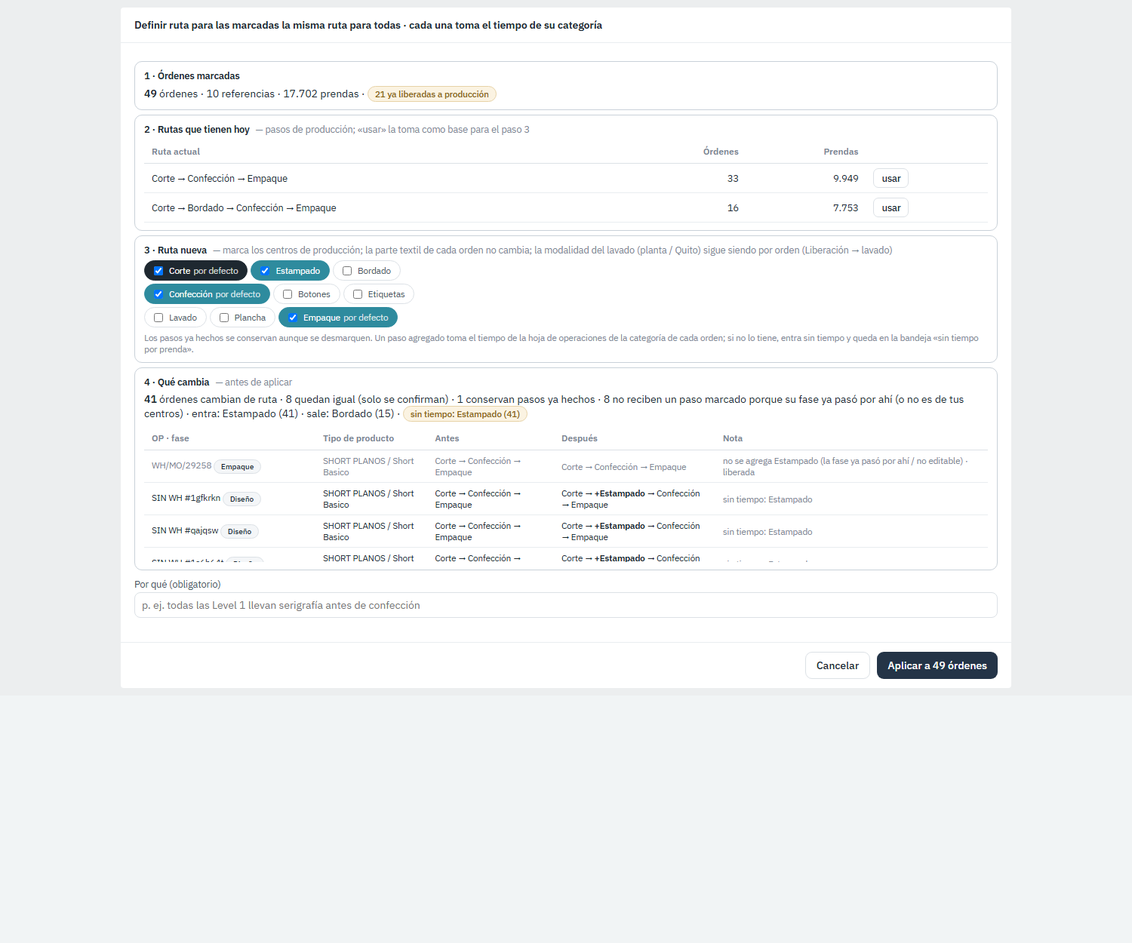
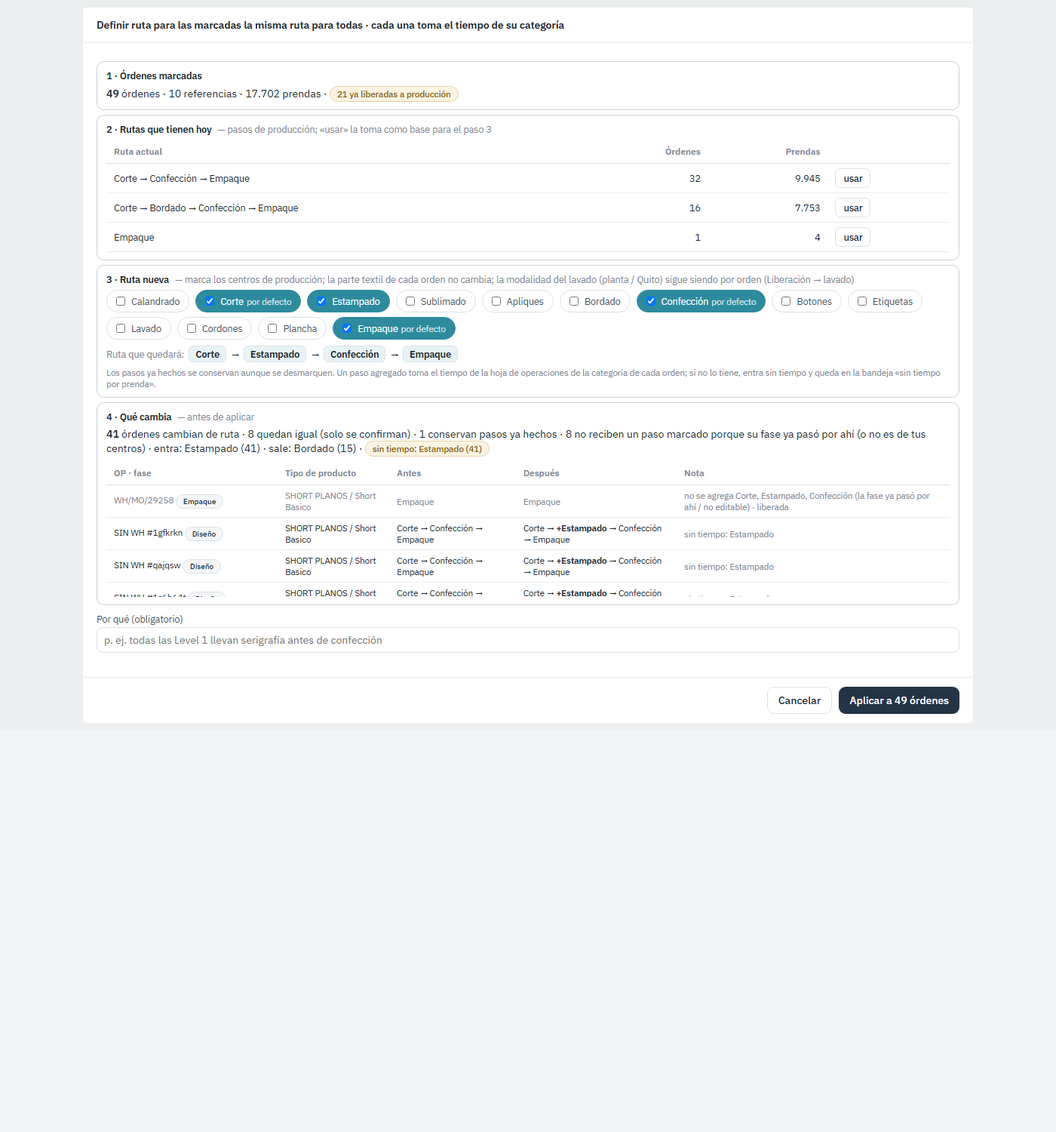
Ruta en lote: el paso 3 usa todo el ancho (centros en el orden del proceso, chips más grandes) y dice «Ruta que quedará: … → …». Rutas: el filtro de fases muestra por fase (N órdenes · M prendas) del chip puesto, sin vaciarse al desmarcar; cada fase en una línea. Pruebas UX3/RLT, capturas

diff --git a/index.html b/index.html
@@ -245,6 +245,7 @@ main{padding:24px 28px 70px}
 .panel .body>label,.modal .body>label,.ed-blk>label{font-weight:700;color:var(--ink);margin-top:10px}
 /* sub-bloque enmarcado dentro de un panel o de una ficha: se ve qué es un bloque y qué es otro */
 .sub-blk{border:1.5px solid #C9D1D9;border-radius:10px;padding:10px 12px;background:var(--paper);margin:6px 0}
+.rl-cens{max-width:none;gap:6px 8px}.rl-cens .chip{padding:6px 12px;font-size:var(--fs-s)}.rl-ruta{margin:8px 0 0;font-size:var(--fs-s);display:flex;flex-wrap:wrap;gap:4px 6px;align-items:center}.rl-ruta b{border:1px solid var(--rule);border-radius:6px;padding:2px 8px;background:var(--t-accent-soft,#f3f6f9)}
 .sub-blk>.sub-t{font-weight:700;font-size:var(--fs-s);color:var(--ink);margin-bottom:6px;display:flex;gap:8px;align-items:baseline;flex-wrap:wrap}
 .sub-blk>.sub-t .mut{font-weight:400}
 .filtros-blk{border:1.5px solid #C9D1D9;border-radius:10px;padding:10px 12px;background:var(--field);margin-bottom:12px}
@@ -779,7 +780,7 @@ async function _save(){
 }
 
 /* ---------- versión cargada vs publicada: nunca mirar números de una copia vieja sin saberlo ---------- */
-const APP_BUILD='2026-09-20 17:15';
+const APP_BUILD='2026-09-20 17:43';
 function verBotonesAdmin(){const ok=puede('config');['btn-respaldo','btn-restaurar'].forEach(id=>{const b=document.getElementById(id);if(b)b.style.display=ok?'':'none'})}
 function verVersion(){const e=document.getElementById('version');if(e)e.textContent='v '+APP_BUILD}
 async function revisarVersion(){try{const r=await fetch(location.pathname+'?nocache='+Date.now(),{cache:'no-store'});if(!r.ok)return;const t=await r.text();const m=t.match(/APP_BUILD=\x27([^\x27]+)\x27/);if(!m)return;
@@ -2932,11 +2933,12 @@ function togFaseFiltro(varName,f,fasesAll){const r=refEstado(varName);if(!r.o)re
   else if(fasesAll.length&&set.size===fasesAll.length&&fasesAll.every(x=>set.has(x)))set=null;
   r.o[r.k]=set;render()}
 function togGrupoFiltro(varName,fasesGrupo,on,fasesAll){const r=refEstado(varName);if(!r.o)return;const cur=r.o[r.k];let set=(!cur||!cur.size||cur.has(FASE_NINGUNA))?(on?new Set():new Set(fasesAll)):new Set(cur);set.delete(FASE_NINGUNA);if(!cur||!cur.size){set=on?new Set():new Set(fasesAll)}fasesGrupo.forEach(f=>on?set.add(f):set.delete(f));if(set.size===0)set=new Set([FASE_NINGUNA]);if(set.size===fasesAll.length&&fasesAll.every(f=>set.has(f)))set=null;r.o[r.k]=set;render()}
+function cuentaFaseTxt(v){if(v&&typeof v==='object')return v.n?num(v.n)+' órdenes · '+num(v.pz)+' prendas':'0';return num(v)}   /* {n,pz} = órdenes y prendas; número = como venía (prendas) */
 function filtroFasesHTML(fasesAll,sel,varName,togFn,cuentas){const _e=estadoFases(sel,fasesAll);const ninguna=_e==='ninguna';const todas=_e==='todas';const n=sel&&sel.size&&!ninguna?sel.size:0;const grupos=gruposFasesDe(fasesAll);const J=JSON.stringify(fasesAll).replace(/"/g,'&quot;');
   return `<details class="ffases" style="position:relative"><summary class="chip" style="list-style:none;cursor:pointer;display:inline-block;white-space:nowrap">${ninguna?'Ninguna fase':todas?'Todas las fases':n+' de '+fasesAll.length+' fases'} ▾</summary>
    <div style="position:absolute;z-index:6;background:var(--paper);border:1px solid var(--rule);border-radius:10px;padding:10px 12px;top:100%;left:0;margin-top:4px;min-width:320px;max-height:400px;overflow:auto;box-shadow:0 6px 20px rgba(0,0,0,.12)">
     <div style="margin-bottom:8px;display:flex;gap:6px"><button class="btn ghost sm" title="quita el filtro: pasan todas las fases" onclick="${varName}=null;render()">Seleccionar todas</button><button class="btn ghost sm" title="deja la lista VACÍA: ninguna fase pasa el filtro" onclick="${varName}=new Set([FASE_NINGUNA]);render()">Limpiar (ninguna)</button></div>
-    ${grupos.map(g=>{const all=!ninguna&&(todas||g.fases.every(f=>sel.has(f)));return `<div style="margin:8px 0 4px;font-size:var(--fs-xs);letter-spacing:.06em;text-transform:uppercase;color:var(--ink3);display:flex;justify-content:space-between"><span>${esc(g.n)}</span><a style="cursor:pointer" onclick="togGrupoFiltro('${varName}',${JSON.stringify(g.fases).replace(/"/g,'&quot;')},${all?'false':'true'},${J})">${all?'quitar':'todas'}</a></div>${g.fases.map(f=>`<label style="display:block;font-size:var(--fs-s);padding:2px 0"><input type="checkbox" ${!ninguna&&(todas||sel.has(f))?'checked':''} onchange="togFaseFiltro('${varName}','${esc(f).replace(/'/g,"\\'")}',${J})" onclick="event.stopPropagation()"> ${esc(f)}${cuentas&&cuentas[f]!=null?' <span class="mut">('+num(cuentas[f])+')</span>':''}</label>`).join('')}`}).join('')}</div></details>`}
+    ${grupos.map(g=>{const all=!ninguna&&(todas||g.fases.every(f=>sel.has(f)));return `<div style="margin:8px 0 4px;font-size:var(--fs-xs);letter-spacing:.06em;text-transform:uppercase;color:var(--ink3);display:flex;justify-content:space-between"><span>${esc(g.n)}</span><a style="cursor:pointer" onclick="togGrupoFiltro('${varName}',${JSON.stringify(g.fases).replace(/"/g,'&quot;')},${all?'false':'true'},${J})">${all?'quitar':'todas'}</a></div>${g.fases.map(f=>`<label style="display:block;font-size:var(--fs-s);padding:2px 0;white-space:nowrap"><input type="checkbox" ${!ninguna&&(todas||sel.has(f))?'checked':''} onchange="togFaseFiltro('${varName}','${esc(f).replace(/'/g,"\\'")}',${J})" onclick="event.stopPropagation()"> ${esc(f)}${cuentas&&cuentas[f]!=null?' <span class="mut">('+cuentaFaseTxt(cuentas[f])+')</span>':''}</label>`).join('')}`}).join('')}</div></details>`}
 /* c) Tarjeta resumen: número grande + texto; clic despliega la lista (foto, WH, fase) debajo de la fila */
 let TARJ={exp:{}};
 function togTarj(id){TARJ.exp[id]=!TARJ.exp[id];render()}
@@ -7945,7 +7947,7 @@ function rutaLoteUsar(cens){RLOTE.cens=cens.slice();RLOTE.tocado=true;mRutaLote(
 function mRutaLote(){if(!puedeEditarRuta()){alert('Solo el jefe de planificación de producción crea o edita rutas. Tu perfil las ve, pero no las cambia.');return}
   const ords=ordenesLote();if(RLOTE.cens===null)RLOTE.cens=rutaLoteBase(ords);const fuera=(RLOTE.ids||[]).length-ords.length;
   const refs=[...new Set(ords.map(refDe))];const distintas=rutasDistintas(ords);const plan=planRutaLote(ords,RLOTE.cens);const cl=centrosLote();
-  const avisosRuta=avisosRutaLote(RLOTE.cens);const porDef=centrosRutaDefecto();
+  const avisosRuta=avisosRutaLote(RLOTE.cens);const porDef=centrosRutaDefecto();const rutaRes=(RLOTE.cens||[]).slice().sort((a,b)=>ordenPaso(a)-ordenPaso(b));   /* en el orden del proceso, como la aplica aplicarRutaLote */
   abrir(`<h3>Definir ruta para las marcadas <span class="note">la misma ruta para todas · cada una toma el tiempo de su categoría</span></h3><div class="body">
    <div class="sub-blk"><div class="sub-t">1 · Órdenes marcadas</div>
     <p style="margin:0"><b id="rlote-n">${ords.length}</b> órdenes · ${refs.length} referencias · ${num(plan.prendas)} prendas${plan.liberadas?' · <span class="tag t-aviso">'+plan.liberadas+' ya liberadas a producción</span>':''}${plan.editadasMano?' · '+plan.editadasMano+' con la ruta editada a mano':''}${plan.confirmadas?' · '+plan.confirmadas+' con ruta confirmada (se pisan; queda en auditoría)':''}${fuera>0?' · <span class="mut">'+fuera+' marcadas no entran (cerradas o con la prenda terminada)</span>':''}</p>
@@ -7954,7 +7956,8 @@ function mRutaLote(){if(!puedeEditarRuta()){alert('Solo el jefe de planificació
     ${distintas.length?`<table style="font-size:var(--fs-s)"><thead><tr><th>Ruta actual</th><th class="num">Órdenes</th><th class="num">Prendas</th><th></th></tr></thead><tbody>${distintas.slice(0,12).map(d=>`<tr><td>${d.k==='(sin ruta)'?'<span class="tag t-alerta">sin ruta de producción</span>':d.cens.slice().sort((a,b)=>ordenPaso(a)-ordenPaso(b)).map(c=>esc(nCen(c))).join(' → ')}</td><td class="num">${d.n}</td><td class="num">${num(d.pz)}</td><td>${d.k==='(sin ruta)'?'':`<button class="btn ghost sm" onclick="rutaLoteUsar(${JSON.stringify(d.cens).replace(/"/g,'&quot;')})">usar</button>`}</td></tr>`).join('')}${distintas.length>12?`<tr><td colspan="4" class="mut">y ${distintas.length-12} rutas más</td></tr>`:''}</tbody></table>`:'<span class="mut">No hay órdenes marcadas que se puedan editar.</span>'}
    </div>
    <div class="sub-blk"><div class="sub-t">3 · Ruta nueva <span class="mut">— marca los centros de producción; la parte textil de cada orden no cambia; la modalidad del lavado (planta / Quito) sigue siendo por orden (Liberación → lavado)</span></div>
-    <div class="chips" style="margin:0">${cl.map(c=>{const on=(RLOTE.cens||[]).includes(c.id);return `<label class="chip ${on?'on':''}" style="cursor:${c.editable?'pointer':'not-allowed'}" title="${c.editable?(porDef.includes(c.id)?'marcado en Configuración → Centros: va por defecto en toda ruta':''):'no es de tus centros: se deja como está en cada orden'}"><input type="checkbox" id="rl-${c.id}" ${on?'checked':''} ${c.editable?'':'disabled'} onchange="rutaLoteTog('${c.id}')" style="margin:0 4px 0 0">${esc(c.n)}${porDef.includes(c.id)?' <span class="mut" style="font-size:var(--fs-xs)">por defecto</span>':''}</label>`}).join('')}</div>
+    <div class="chips rl-cens" style="margin:0">${cl.map(c=>{const on=(RLOTE.cens||[]).includes(c.id);return `<label class="chip ${on?'on':''}" style="cursor:${c.editable?'pointer':'not-allowed'}" title="${c.editable?(porDef.includes(c.id)?'marcado en Configuración → Centros: va por defecto en toda ruta':''):'no es de tus centros: se deja como está en cada orden'}"><input type="checkbox" id="rl-${c.id}" ${on?'checked':''} ${c.editable?'':'disabled'} onchange="rutaLoteTog('${c.id}')" style="margin:0 4px 0 0">${esc(c.n)}${porDef.includes(c.id)?' <span class="mut" style="font-size:var(--fs-xs)">por defecto</span>':''}</label>`}).join('')}</div>
+    <p class="rl-ruta"><span class="mut">Ruta que quedará:</span> ${rutaRes.length?rutaRes.map(c=>'<b>'+esc(nCen(c))+'</b>').join(' → '):'<span class="mut">— ninguna (marca al menos un centro)</span>'}</p>
     ${avisosRuta.map(a=>`<p style="margin:6px 0 0"><span class="tag t-alerta">${esc(a)}</span></p>`).join('')}
     <p class="mut" style="font-size:var(--fs-xs);margin:6px 0 0">Los pasos ya hechos se conservan aunque se desmarquen. Un paso agregado toma el tiempo de la hoja de operaciones de la categoría de cada orden; si no lo tiene, entra sin tiempo y queda en la bandeja «sin tiempo por prenda».</p>
    </div>
@@ -8092,7 +8095,9 @@ function reglasRutaHTML(){const rs=reglasRuta();const p=previaReglasRuta();
    casilla por orden, y dos acciones sobre lo marcado: definir ruta (mRutaLote) o confirmar como están. Rutas estimadas, reglas de
    sub-áreas y lo que dice Odoo quedan plegados abajo en «Más herramientas». ---------- */
 function rutasBase(){return S.ordenes.filter(o=>abierta(o)&&!rutaNoAplica(o))}
-function rutasLista(){const q=normTxt(RUT.q);const v=RUT.ver;return rutasBase().filter(o=>(v==='pend'?!rutaConfirmada(o):v==='conf'?rutaConfirmada(o):true)&&faseOkFiltro(RUT.fases,o.fase)&&matchBusq(o,q,'RUT.q'))}
+function enChipRut(o){const v=RUT.ver;return v==='pend'?!rutaConfirmada(o):v==='conf'?rutaConfirmada(o):true}   /* el chip Por confirmar / Confirmadas / Todas */
+function rutasLista(){const q=normTxt(RUT.q);return rutasBase().filter(o=>enChipRut(o)&&faseOkFiltro(RUT.fases,o.fase)&&matchBusq(o,q,'RUT.q'))}
+function cuentasFaseRut(base,qF){const c={};base.forEach(o=>{const f=o.fase||'Sin fase';if(!c[f])c[f]={n:0,pz:0}});base.filter(o=>enChipRut(o)&&matchBusq(o,qF,'RUT.q')).forEach(o=>{const x=c[o.fase||'Sin fase'];x.n++;x.pz+=+o.cant||0});return c}   /* por fase: órdenes y prendas del chip puesto (sin el filtro de fases, para que no se vacíe al desmarcar) */
 function rutasBarraSel(){const n=RUT.sel.size;const el=document.getElementById('rut-sel-n');if(el)el.textContent=n;['rut-btn-def','rut-btn-conf'].forEach(id=>{const b=document.getElementById(id);if(b)b.disabled=!n})}
 function togSelRut(id,on){if(on)RUT.sel.add(id);else RUT.sel.delete(id);rutasBarraSel()}   /* sin redibujar: la lista no se mueve al marcar una fila */
 function selGrupoRut(key,on){const ids=((grpSt('rut').mapa)||{})[key]||[];ids.forEach(id=>on?RUT.sel.add(id):RUT.sel.delete(id));conScrollGRP('rut',render)}
@@ -8102,7 +8107,7 @@ function rutasHTML(){const contras=contradiccionesOT();const base=rutasBase();co
   const pend=baseF.filter(o=>!rutaConfirmada(o)),conf=baseF.filter(o=>rutaConfirmada(o));const filtrado=baseF.length!==base.length;const na=rutasNoAplican();const lista=rutasLista();
   const g=grpSt('rut');if(!g.sembrado){g.sembrado=true;let guardado=null;try{guardado=localStorage['__grp_'+claveUsr()+'_rut']}catch(e){}if(guardado==null&&!g.niveles.length)g.niveles=['fam','hija']}   /* arranca agrupada por familia → tipo de producto solo la primera vez; «sin agrupar» se respeta */
   g.selFn='selGrupoRut';g.selChk=ids=>!!(ids&&ids.length&&ids.every(id=>RUT.sel.has(id)));g.todoAbierto=false;
-  const nSel=RUT.sel.size;const an=analizarRutasOdoo();const fasesAllRut=[...new Set(base.map(o=>o.fase||'Sin fase'))].sort((a,b)=>cmpFases(a,b));
+  const nSel=RUT.sel.size;const an=analizarRutasOdoo();const fasesAllRut=[...new Set(base.map(o=>o.fase||'Sin fase'))].sort((a,b)=>cmpFases(a,b));const cuentasRut=cuentasFaseRut(base,qF);
   const fila=o=>{const d=diagRutaOdoo(o,contras);const rc=rutaConf(o);const ruta=pasosProCompleta(o).slice().sort((a,b)=>ordenPaso(a)-ordenPaso(b));
     return `<tr><td><input type="checkbox" ${RUT.sel.has(o.id)?'checked':''} onchange="togSelRut('${o.id}',this.checked)"></td><td style="white-space:nowrap">${whCell(o)}${tagExcedente(o)}</td><td>${esc(refDe(o))}</td><td>${esc(o.cliente||'')}</td><td style="white-space:nowrap">${esc(String(o.odc||'').trim()||'—')}</td><td class="num">${num(o.cant)}</td><td>${esc(nombreCat(K(o.cat)))}</td><td style="font-size:var(--fs-xs)">${ruta.map(c=>esc(nCen(c))).join(' → ')||'<span class="tag t-alerta">sin ruta de producción</span>'}</td><td class="mut" style="font-size:var(--fs-xs)">${esc(d.txt)}</td><td style="white-space:nowrap">${rc&&rc.estado==='confirmada'?(rc.origen==='odoo'?'<span class="tag t-medio">Odoo OT</span>':'<span class="tag t-ok">persona</span>')+' <span class="mut" style="font-size:var(--fs-xs)">'+esc(rc.u||'')+' · '+new Date(rc.ts).toLocaleDateString('es-EC')+'</span>':(typeof estadoRuta==='function'&&estadoRuta(o)==='sinRevisar'?'<span class="tag t-aviso">estimada · sin revisar</span>':'<span class="tag t-aviso">por confirmar</span>')}</td><td>${puedeEditarRuta()?`<button class="btn ghost sm" onclick="mRutaCentro('${o.id}')">editar</button>`:`<button class="btn ghost sm" onclick="abrirFichaOrden('${o.id}')">ver</button>`}</td></tr>`};
   const cap=g.niveles.length?lista:lista.slice(0,600);
@@ -8110,7 +8115,7 @@ function rutasHTML(){const contras=contradiccionesOT();const base=rutasBase();co
    <div class="row filtros-blk" style="align-items:flex-end;margin-bottom:8px;gap:14px">
     <div style="width:220px"><label>Buscar</label>${busqHTML('RUT.q',RUT.q,'RUT.q=v','width:100%;font-size:var(--fs-s);padding:4px 6px')}</div>
     <div><label>Agrupar por</label><div class="grp-inline" data-filt-tipo="grp">${grpSelHTML('rut',true)}</div></div>
-    <div><label>Fases</label>${filtroFasesHTML(fasesAllRut,RUT.fases,'RUT.fases','togFaseRUT')}</div>
+    <div><label>Fases</label>${filtroFasesHTML(fasesAllRut,RUT.fases,'RUT.fases','togFaseRUT',cuentasRut)}</div>
     <div class="chips" style="margin:0">${[['pend','Por confirmar',pend.length],['conf','Confirmadas',conf.length],['todas','Todas',baseF.length]].map(([k,n,c])=>`<span class="chip ${RUT.ver===k?'on':''}" onclick="RUT.ver='${k}';render()">${n} <span class="mut">${c}</span></span>`).join('')}</div>
    </div>
    <p class="mut" style="font-size:var(--fs-xs);margin:0 0 8px">Fuera de esta cuenta: <b>${na.length}</b> órdenes abiertas con la prenda terminada (fase con «sin carga» en la tabla 1: solo falta facturar) — su ruta no se revisa; si la fase vuelve atrás, vuelven a pedirse.</p>

diff --git a/test/driver.js b/test/driver.js
@@ -157,7 +157,7 @@ async function __run(){try{LISTO=true;}catch(e){}try{__R.prevFuzz=localStorage._
     if(/captura=ux/.test(location.search)){const m=location.search.match(/captura=ux([a-z]+?)(f?)(q?)$/)||[];const p=m[1]||'ordenes';PERFIL=adminP0();FILT={};
       if(p==='plan'){PM.mes=hoy().slice(0,7);PM.paso=1}if(p==='ordenes'){grpSt('ord').niveles=[];ORDF.q='';ORDF.fases=null;ORDF.estado='plan';ORDF.tab='ord'}if(p==='entregas'){EG.q='';EG.meses=new Set()}if(p==='control'){CTL.area='pro'}if(p==='liberacion'){LIB.et='tela'}
       if(m[2])FILT[p]=true;
-      if(p==='lote'||p==='rutas'){page='ordenes';ORDF.tab='rutas';if(m[2]){FILT_USR=filtClave();FILT={ordenes:true}}RUT.sel=new Set();RUT.ver='pend';RUT.q='';GRP={};grpSt('rut').niveles=['fam','hija'];render();const porCat={};rutasLista().forEach(o=>{const k=K(o.cat);if(!k||!k.padre)return;(porCat[k.id]=porCat[k.id]||[]).push(o)});const catId=Object.keys(porCat).sort((a,b)=>porCat[b].length-porCat[a].length)[0];porCat[catId].forEach(o=>RUT.sel.add(o.id));render();if(p==='rutas'){const k=K(catId);const key='|'+(K(k.padre)||k).n;grpSt('rut').exp.add(key);render();document.querySelectorAll('#p-ordenes .scroll').forEach(x=>{x.style.maxHeight='none'});document.querySelectorAll('main,#app').forEach(x=>{x.style.height='auto';x.style.maxHeight='none';x.style.overflow='visible'});[...document.body.childNodes].filter(n=>n.nodeType===3).forEach(n=>n.remove());document.body.classList.add('captura');__R.done=true;return}abrirRutaLote();const cl=centrosLote();const ag=cl.find(c=>c.editable&&!(RLOTE.cens||[]).includes(c.id)&&['estampado','bordado'].includes(c.id));if(ag)rutaLoteTog(ag.id);
+      if(p==='lote'||p==='rutas'){page='ordenes';ORDF.tab='rutas';if(m[2]){FILT_USR=filtClave();FILT={ordenes:true}}RUT.sel=new Set();RUT.ver='pend';RUT.q='';GRP={};grpSt('rut').niveles=['fam','hija'];render();const porCat={};rutasLista().forEach(o=>{const k=K(o.cat);if(!k||!k.padre)return;(porCat[k.id]=porCat[k.id]||[]).push(o)});const catId=Object.keys(porCat).sort((a,b)=>porCat[b].length-porCat[a].length)[0];porCat[catId].forEach(o=>RUT.sel.add(o.id));render();if(p==='rutas'){const k=K(catId);const key='|'+(K(k.padre)||k).n;grpSt('rut').exp.add(key);render();if(m[3]){const d=document.querySelector('#p-ordenes .filtros-blk details.ffases');if(d)d.open=true}document.querySelectorAll('#p-ordenes .scroll').forEach(x=>{x.style.maxHeight='none'});document.querySelectorAll('main,#app').forEach(x=>{x.style.height='auto';x.style.maxHeight='none';x.style.overflow='visible'});[...document.body.childNodes].filter(n=>n.nodeType===3).forEach(n=>n.remove());document.body.classList.add('captura');__R.done=true;return}abrirRutaLote();const cl=centrosLote();const ag=cl.find(c=>c.editable&&!(RLOTE.cens||[]).includes(c.id)&&['estampado','bordado'].includes(c.id));if(ag)rutaLoteTog(ag.id);
        document.getElementById('app').style.display='none';document.getElementById('veil').style.position='static';document.getElementById('veil').style.background='#ECEEEF';document.getElementById('veil').style.padding='10px';document.getElementById('modal').style.maxHeight='none';document.getElementById('modal').style.overflow='visible';document.querySelectorAll('#modal .scroll').forEach(x=>{x.style.maxHeight='180px'});[...document.body.childNodes].filter(n=>n.nodeType===3).forEach(n=>n.remove());document.body.classList.add('captura');__R.done=true;return}
       if(p==='ficha'){page='ordenes';ORDF.edicion='porEditar';render();const o=S.ordenes.find(o=>abiertaDe(o)&&lanzada(o)&&fotoDe(o)&&(o.materiales||[]).some(x=>x.clasif==='tela')&&(o.ruta||[]).length>=4)||S.ordenes.find(o=>abiertaDe(o)&&lanzada(o)&&(o.materiales||[]).some(x=>x.clasif==='tela'));mOrden(o.id);document.getElementById('app').style.display='none';document.getElementById('veil').style.position='static';document.getElementById('veil').style.background='#ECEEEF';document.getElementById('veil').style.padding='10px';document.getElementById('modal').style.maxHeight='none';document.getElementById('modal').style.overflow='visible';document.body.classList.add('captura');__R.done=true;return}
       page=p;render();if(m[3]){const a=document.querySelector('#p-'+p+' .pagehead .ayuda-cab');if(a)a.classList.add('abierto')}
@@ -6680,7 +6680,9 @@ async function __run(){try{LISTO=true;}catch(e){}try{__R.prevFuzz=localStorage._
     __check('RLT: un perfil sin permiso de rutas no aplica el lote',n1===0&&ords.every(o=>!rutaConfirmada(o)));
     {const censB=RLOTE.cens.slice();document.getElementById('rlote-motivo').value='prueba';RLOTE.cens=[];alerts.length=0;const nv=aplicarRutaLote();const okV=nv===0&&alerts.some(a=>/vac/i.test(a));RLOTE.cens=censB.filter(c=>c!=='empaque');alerts.length=0;const ne=aplicarRutaLote();
      __check('RLT: una ruta vacía o que deje órdenes sin Empaque no se aplica en lote (regla fija: toda ruta termina en Empaque) y nada cambia',okV&&ne===0&&alerts.some(a=>/Empaque/.test(a))&&ords.every(o=>!rutaConfirmada(o)),JSON.stringify(alerts.slice(0,2)));RLOTE.cens=censB;}
-    mRutaLote();document.getElementById('rlote-motivo').value='las '+kk.n+' llevan '+agregar.n+' (prueba)';const n2=aplicarRutaLote();window.alert=al;window.confirm=cf;
+    mRutaLote();{const m=document.getElementById('modal');const cens=m.querySelector('.rl-cens');const ruta=m.querySelector('.rl-ruta');const esperado=RLOTE.cens.slice().sort((a,b)=>ordenPaso(a)-ordenPaso(b)).map(nCen);
+     __check('RLT: en el paso 3 los centros van a todo lo ancho (sin el tope de 420 px de .chips) en el orden del proceso, y debajo dice la ruta que quedará en ese orden',!!cens&&getComputedStyle(cens).maxWidth==='none'&&!!ruta&&/Ruta que quedará/.test(ruta.textContent)&&[...ruta.querySelectorAll('b')].map(b=>b.textContent).join('|')===esperado.join('|')&&[...cens.querySelectorAll('label')].map(l=>l.textContent.trim().replace(/\s*por defecto$/,''))[0]===nCen(centrosLote()[0].id),JSON.stringify({mw:cens&&getComputedStyle(cens).maxWidth,ruta:ruta&&ruta.textContent.trim(),esperado}));}
+    document.getElementById('rlote-motivo').value='las '+kk.n+' llevan '+agregar.n+' (prueba)';const n2=aplicarRutaLote();window.alert=al;window.confirm=cf;
     const key=l=>l.slice().sort((a,b)=>ordenPaso(a)-ordenPaso(b)).join('→');
     __check('RLT: aplica a todas las marcadas: cada orden queda con la ruta que decía el plan (completa y pendiente coherentes, en orden de paso), confirmada (persona, nota «ruta en lote»), sellada y, si cambió, con rutaEditada etapa lote; la selección se limpia',n2===ords.length&&RUT.sel.size===0&&plan.filas.every(f=>{const o=f.o;const comp=key(pasosProCompleta(o));const pend=(o.ruta||[]).map(p=>p.centro).filter(c=>CE(c)&&CE(c).area==='pro');return comp===key(f.despues)&&pend.every(c=>f.despues.includes(c))&&f.mas.every(c=>pend.includes(c))&&!f.menos.some(c=>pend.includes(c))&&rutaConfirmada(o)&&o.rutaConf.origen==='persona'&&/ruta en lote/.test(o.rutaConf.nota)&&!!o.rutaFirma&&((f.mas.length||f.menos.length)?(o.rutaEditada.slice(-1)[0].etapa==='lote'&&o.rutaEditada.slice(-1)[0].mas.join()===f.mas.join()):true)}),JSON.stringify({n2,ej:plan.filas[0]&&{antes:plan.filas[0].antes,despues:plan.filas[0].despues,real:pasosProCompleta(plan.filas[0].o)}}));
     __check('RLT: el paso agregado toma el tiempo como la ficha (tiempoPaso: hoja LMO de la categoría, puntadas para bordado, el centro para lavado/plancha; 0 con aviso si no hay) y los pasos que ya tenía conservan su tiempo',plan.filas.every(f=>f.mas.every(c=>{const p=(f.o.ruta||[]).find(x=>x.centro===c);const t=+((tiempoPaso({centro:c,t:0},K(f.o.cat),samPorCentro(K(f.o.cat))||{},+f.o.puntadas||0)||{}).t)||0;return p&&p.t===t})),JSON.stringify(plan.sinT));
@@ -6714,6 +6716,12 @@ async function __run(){try{LISTO=true;}catch(e){}try{__R.prevFuzz=localStorage._
     /* filtro de fases como en las demás pantallas */
     {const fase=(rutasBase().find(o=>o.fase)||{}).fase;RUT.fases=new Set([fase]);render();
      __check('UX3: el filtro de fases acota la lista de Rutas',!!fase&&rutasLista().length>0&&rutasLista().every(o=>o.fase===fase)&&pg().querySelectorAll('tr.grp-row').length>0,JSON.stringify({fase,n:rutasLista().length}));RUT.fases=null;render();}
+    /* cada fase dice cuántas órdenes y prendas tiene (usuaria, 20-sep: «las fases y en paréntesis cuántas unidades») */
+    {RUT.fases=null;RUT.ver='pend';RUT.q='';render();const nomDe=l=>l.textContent.trim().replace(/\s*\([^()]*\)$/,'');const lab=(f)=>[...pg().querySelectorAll('.filtros-blk details.ffases label')].find(l=>nomDe(l)===f);
+     const pend=rutasBase().filter(o=>!rutaConfirmada(o));const f0=pend.length?(pend[0].fase||'Sin fase'):null;const enF=pend.filter(o=>(o.fase||'Sin fase')===f0);const nF=enF.length,pzF=enF.reduce((a,o)=>a+(+o.cant||0),0);
+     __check('UX3: el filtro de fases de Rutas dice por cada fase cuántas órdenes y prendas hay (con el chip puesto: por confirmar) y coincide con la lista',!!f0&&!!lab(f0)&&lab(f0).textContent.includes('('+num(nF)+' órdenes · '+num(pzF)+' prendas)')&&rutasLista().filter(o=>(o.fase||'Sin fase')===f0).length===nF,JSON.stringify({f0,nF,pzF,txt:f0&&lab(f0)&&lab(f0).textContent.trim()}));
+     RUT.ver='conf';render();const conf=rutasBase().filter(o=>rutaConfirmada(o));const nC=conf.filter(o=>(o.fase||'Sin fase')===f0).length;const pzC=conf.filter(o=>(o.fase||'Sin fase')===f0).reduce((a,o)=>a+(+o.cant||0),0);
+     __check('UX3: los conteos del filtro siguen al chip (Confirmadas cuenta otras órdenes; una fase sin órdenes dice 0) y no se vacían al desmarcar fases',!!f0&&!!lab(f0)&&lab(f0).textContent.includes(nC?'('+num(nC)+' órdenes · '+num(pzC)+' prendas)':'(0)')&&(()=>{RUT.fases=new Set([FASE_NINGUNA]);render();const ok=!!lab(f0)&&lab(f0).textContent.includes(nC?'('+num(nC)+' órdenes':'(0)');RUT.fases=null;return ok})(),JSON.stringify({f0,nC,pzC,txt:f0&&lab(f0)&&lab(f0).textContent.trim()}));RUT.ver='pend';render();}
     /* la ruta por orden marca los pasos ya hechos (están en la completa, no en la pendiente) */
     {const o=S.ordenes.find(x=>abierta(x)&&lanzada(x)&&!rutaNoAplica(x)&&(x.rutaCompleta||[]).some(p=>p.centro==='corte')&&(x.rutaCompleta||[]).some(p=>p.centro==='empaque'));const filaConf=faseMapeo().find(r=>normFase(r.fase)===normFase('7Confección'));
      if(o&&filaConf){const bak=JSON.stringify(o);aplicarFaseSistema(o,filaConf.fase);const pend=(o.ruta||[]).map(p=>p.centro);mRutaCentro(o.id);const cb=document.getElementById('rc-corte');const h=document.getElementById('modal').innerHTML;

diff --git a/RUTA_EN_LOTE.md b/RUTA_EN_LOTE.md
@@ -142,6 +142,19 @@ quiero ponerle check y no tengo que hacer nada más». Dos cosas:
   de la ruta (`confNoTocadas`, en el aviso, el registro de cargas y el **Reporte OT** con la lista) — se reportan, no se aplican.
   Pruebas EX.
 
+## Paso 3 a todo lo ancho y conteo por fase (20-sep, noche · 2)
+La usuaria: «usemos bien el espacio donde seleccionamos las rutas; y en el filtro de fases, en paréntesis, cuántas unidades».
+- **Paso 3 · Ruta nueva**: los centros van en una sola franja a todo lo ancho (`.rl-cens`: sin el tope de 420 px que `.chips` tiene
+  para los chips de filtro), en el **orden del proceso** (`centrosLote` ya venía por `ordenPaso`), con chips más grandes, y debajo la
+  línea **«Ruta que quedará: Corte → Estampado → Confección → Empaque»** (`.rl-ruta`, los centros marcados ordenados por `ordenPaso`,
+  que es como los inserta `aplicarRutaLote`). Con nada marcado dice «— ninguna (marca al menos un centro)».
+- **Filtro de fases de Rutas**: cada fase dice **(N órdenes · M prendas)**. Se cuenta sobre la base con el **chip** puesto (Por confirmar /
+  Confirmadas / Todas) y el buscador, **sin** el filtro de fases —así no se vacía al desmarcar— (`cuentasFaseRut(base,qF)`, `enChipRut(o)`
+  reemplaza la condición del chip que estaba dentro de `rutasLista`). `filtroFasesHTML` acepta ahora un número (prendas, como en
+  Liberación) o `{n,pz}` (`cuentaFaseTxt`); una fase sin órdenes en el chip dice «(0)». Cada fase va en una sola línea (`white-space:nowrap`).
+- Captura `?captura=uxrutasfq` (la «q» abre el desplegable de fases) → `capturas/ui_rutas_fases.png`; `?captura=uxlote` →
+  `capturas/ui_ruta_lote.png`. Pruebas UX3 (2) y RLT (1).
+
 ## Conteos que siguen al filtro (20-sep, noche)
 La usuaria: «está filtrado y salen 841; le quito fases y sigue la misma cantidad». Los chips Por confirmar / Confirmadas / Todas y
 el título del recuadro cuentan ahora sobre la base **filtrada** por fases y buscador (`baseF`); si hay filtro, el título dice «con el

diff --git a/CLAUDE.md b/CLAUDE.md
@@ -961,7 +961,9 @@ bloques 2–5. Producción → Nivelación es la misma nivelación por meses con
 (nunca posteriores); `PMADD.incluirAnt` (defecto true) mete lo pendiente de meses anteriores como candidato del bloque 4; `nivUICapacidad` promedia
 solo días hábiles de hoy en adelante; `labDiaGeneral` toma las excepciones de producción (un sábado marcado solo para Producción cuenta en la
 nivelación); **Nivelación salió del menú de Producción** (la página `nivelacion` sigue para «volver» y pruebas; `nivUIVolver` vuelve a donde se vino).
-**Rutas**: los conteos siguen al filtro de fases y al buscador (`baseF`). **Pasos de ruta nuevos** (`PASOS_NUEVOS_20`, `sembrarPasosNuevos20` una
+**Rutas**: los conteos siguen al filtro de fases y al buscador (`baseF`); el filtro de fases dice por fase «(N órdenes · M prendas)» del chip puesto
+(`cuentasFaseRut`/`enChipRut`; `filtroFasesHTML` acepta número o `{n,pz}` vía `cuentaFaseTxt`); el paso 3 del lote va a todo lo ancho en orden del
+proceso con la línea «Ruta que quedará» (`.rl-cens`/`.rl-ruta`). **Pasos de ruta nuevos** (`PASOS_NUEVOS_20`, `sembrarPasosNuevos20` una
 vez desde `sembrarTerminados`): Calandrado (antes de corte, por días, plazo por confirmar), Sublimado y Apliques (después de estampado; por técnica
 «sublim» / «aplique» en `ordenCentrosAuto`), Cordones (terminados); están en `RUTA_ORDEN`, `GRUPO_PLAN_DEF`, `CENTROS_DISENO`, `RUTA_EDITABLE_POR`,
 tabla 4 y perfiles; sin tiempo hasta que se cargue. Pruebas PS. Ver `PASOS_NUEVOS_20SEP.md`.
